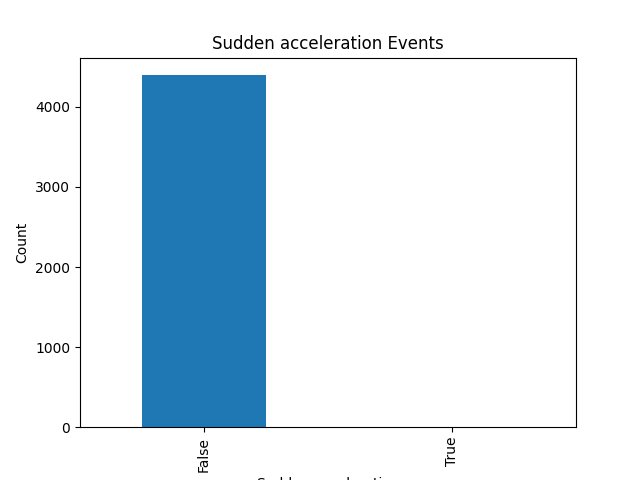
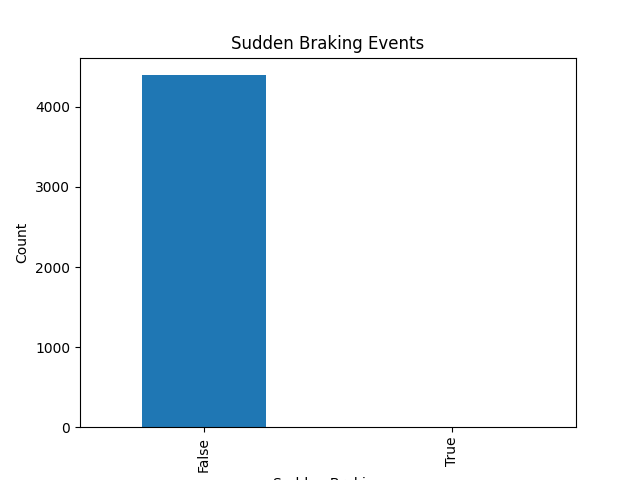
Correlation analysis has been done

Changed region(s): [[0.3125, 0.0625, 0.6875, 0.125]]

diff --git a/analytics/correlation_analysis.py b/analytics/correlation_analysis.py
@@ -1,0 +1,134 @@
+# Import required libraries
+import pandas as pd
+import matplotlib.pyplot as plt
+import numpy as np
+import os
+import seaborn as sns
+# ---------------------------------------------------
+# Load Dataset
+# ---------------------------------------------------
+
+DATA_PATH = "data/processed/pivitel_feature_dataset.csv"
+
+print("Loading dataset...\n")
+
+df = pd.read_csv(DATA_PATH)
+
+print("Dataset Loaded Successfully")
+print("Shape:", df.shape)
+
+# Create output folder
+os.makedirs("outputs/analytics/correlation", exist_ok=True)
+
+
+# ---------------------------------------------------
+# STEP 1: HANDLE BOOLEAN VALUES (IMPORTANT FOR YOUR DATASET)
+# ---------------------------------------------------
+
+# Convert TRUE/FALSE to 1/0
+df = df.replace({True: 1, False: 0})
+
+
+
+
+# ---------------------------------------------------
+# STEP 1.5: FIX TIME FEATURES (IMPORTANT)
+# ---------------------------------------------------
+
+# Clean column names (prevents hidden bugs)
+df.columns = df.columns.str.strip().str.lower()
+
+# Convert time column properly
+if "wall_time_iso" in df.columns:
+    df["wall_time_iso"] = pd.to_datetime(df["wall_time_iso"], errors="coerce")
+    df["hour_of_day"] = df["wall_time_iso"].dt.hour
+
+elif "timestamp" in df.columns:
+    df["timestamp"] = pd.to_datetime(df["timestamp"], errors="coerce")
+    df["hour_of_day"] = df["timestamp"].dt.hour
+
+# Create night_driving safely
+if "hour_of_day" in df.columns:
+    df["night_driving"] = df["hour_of_day"].apply(
+        lambda x: 1 if pd.notnull(x) and (x < 6 or x >= 18) else 0
+    )
+
+# ---------------------------------------------------
+# STEP 2: SELECT ONLY RELEVANT NUMERIC FEATURES
+# ---------------------------------------------------
+
+features = [
+    "gps_speed_kmh",
+    "distance_m",
+    "imu_accel_magnitude",
+    "speed_diff",
+    "acceleration_change",
+    "trip_distance",
+    "overspeed",
+    "sudden_acceleration",
+    "sudden_braking",
+    "high_acceleration",
+    "close_object_risk",
+    "hour_of_day",
+    "night_driving"
+]
+
+# Keep only available columns (safe check)
+features = [col for col in features if col in df.columns]
+
+df_corr = df[features]
+
+# ---------------------------------------------------
+# STEP 3: COMPUTE CORRELATION MATRIX
+# ---------------------------------------------------
+
+corr_matrix = df_corr.corr()
+
+print("\nCorrelation Matrix:\n")
+print(corr_matrix)
+
+# Save correlation table
+corr_matrix.to_csv("outputs/analytics/correlation/correlation_matrix.csv")
+
+# ---------------------------------------------------
+# STEP 4: HEATMAP (MAIN OUTPUT)
+# ---------------------------------------------------
+
+plt.figure(figsize=(12, 8))
+sns.heatmap(corr_matrix, annot=True, cmap="coolwarm", fmt=".2f")
+
+plt.title("Correlation Matrix of Driving Variables")
+
+plt.savefig("outputs/analytics/correlation/correlation_heatmap.png", dpi=150, bbox_inches='tight')
+plt.close()
+
+# ---------------------------------------------------
+# STEP 5: CORRELATION WITH TARGET (IMPORTANT)
+# ---------------------------------------------------
+
+if "high_risk_event" in df.columns:
+    
+    target_corr = df_corr.join(df["high_risk_event"]).corr()["high_risk_event"].sort_values(ascending=False)
+    
+    print("\nCorrelation with High Risk Event:\n")
+    print(target_corr)
+    
+    target_corr.to_csv("outputs/analytics/correlation/target_correlation.csv")
+
+# ---------------------------------------------------
+# STEP 6: TOP STRONG RELATIONSHIPS
+# ---------------------------------------------------
+
+strong_corr = corr_matrix.abs().unstack()
+
+# remove self-correlation
+strong_corr = strong_corr[strong_corr < 1]
+
+strong_corr = strong_corr.sort_values(ascending=False)
+
+print("\nTop Strong Correlations:\n")
+print(strong_corr.head(10))
+
+strong_corr.head(20).to_csv("outputs/analytics/correlation/top_correlations.csv")
+
+print("\nCorrelation analysis completed!")